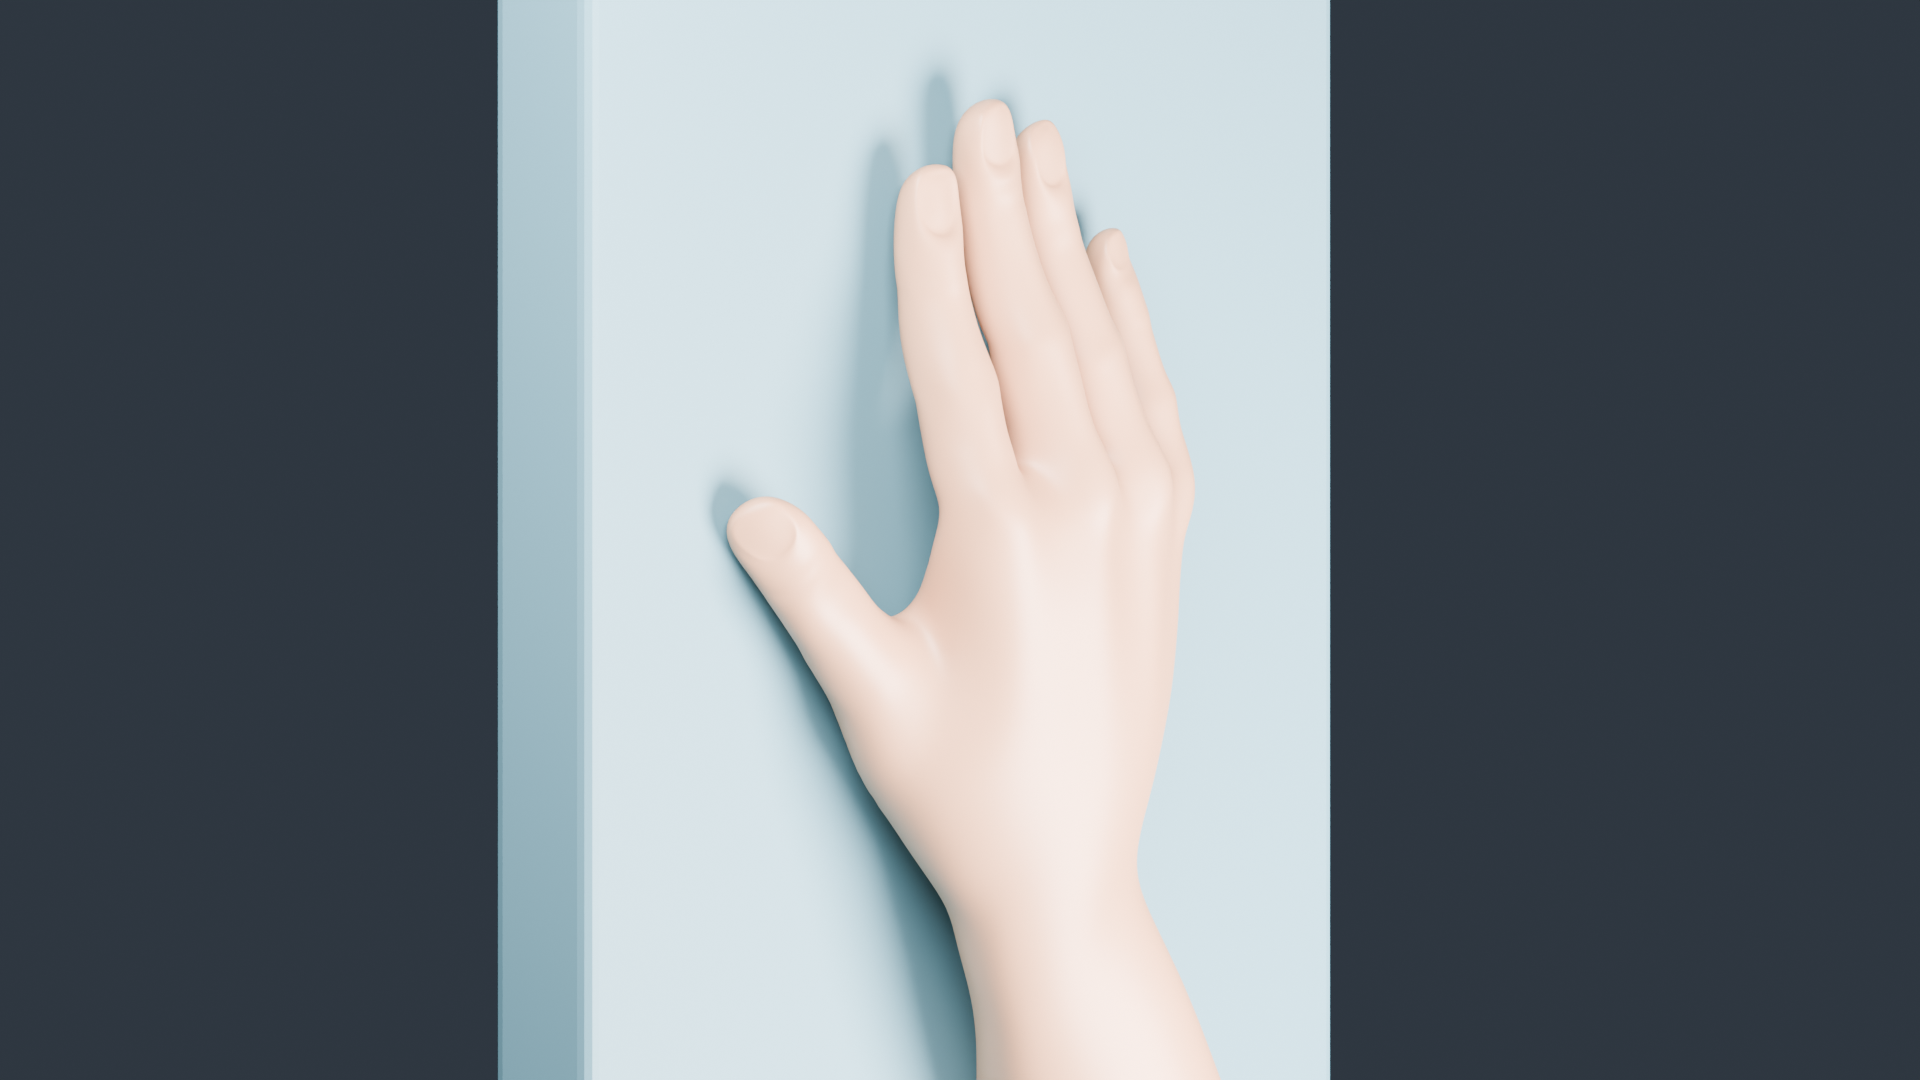
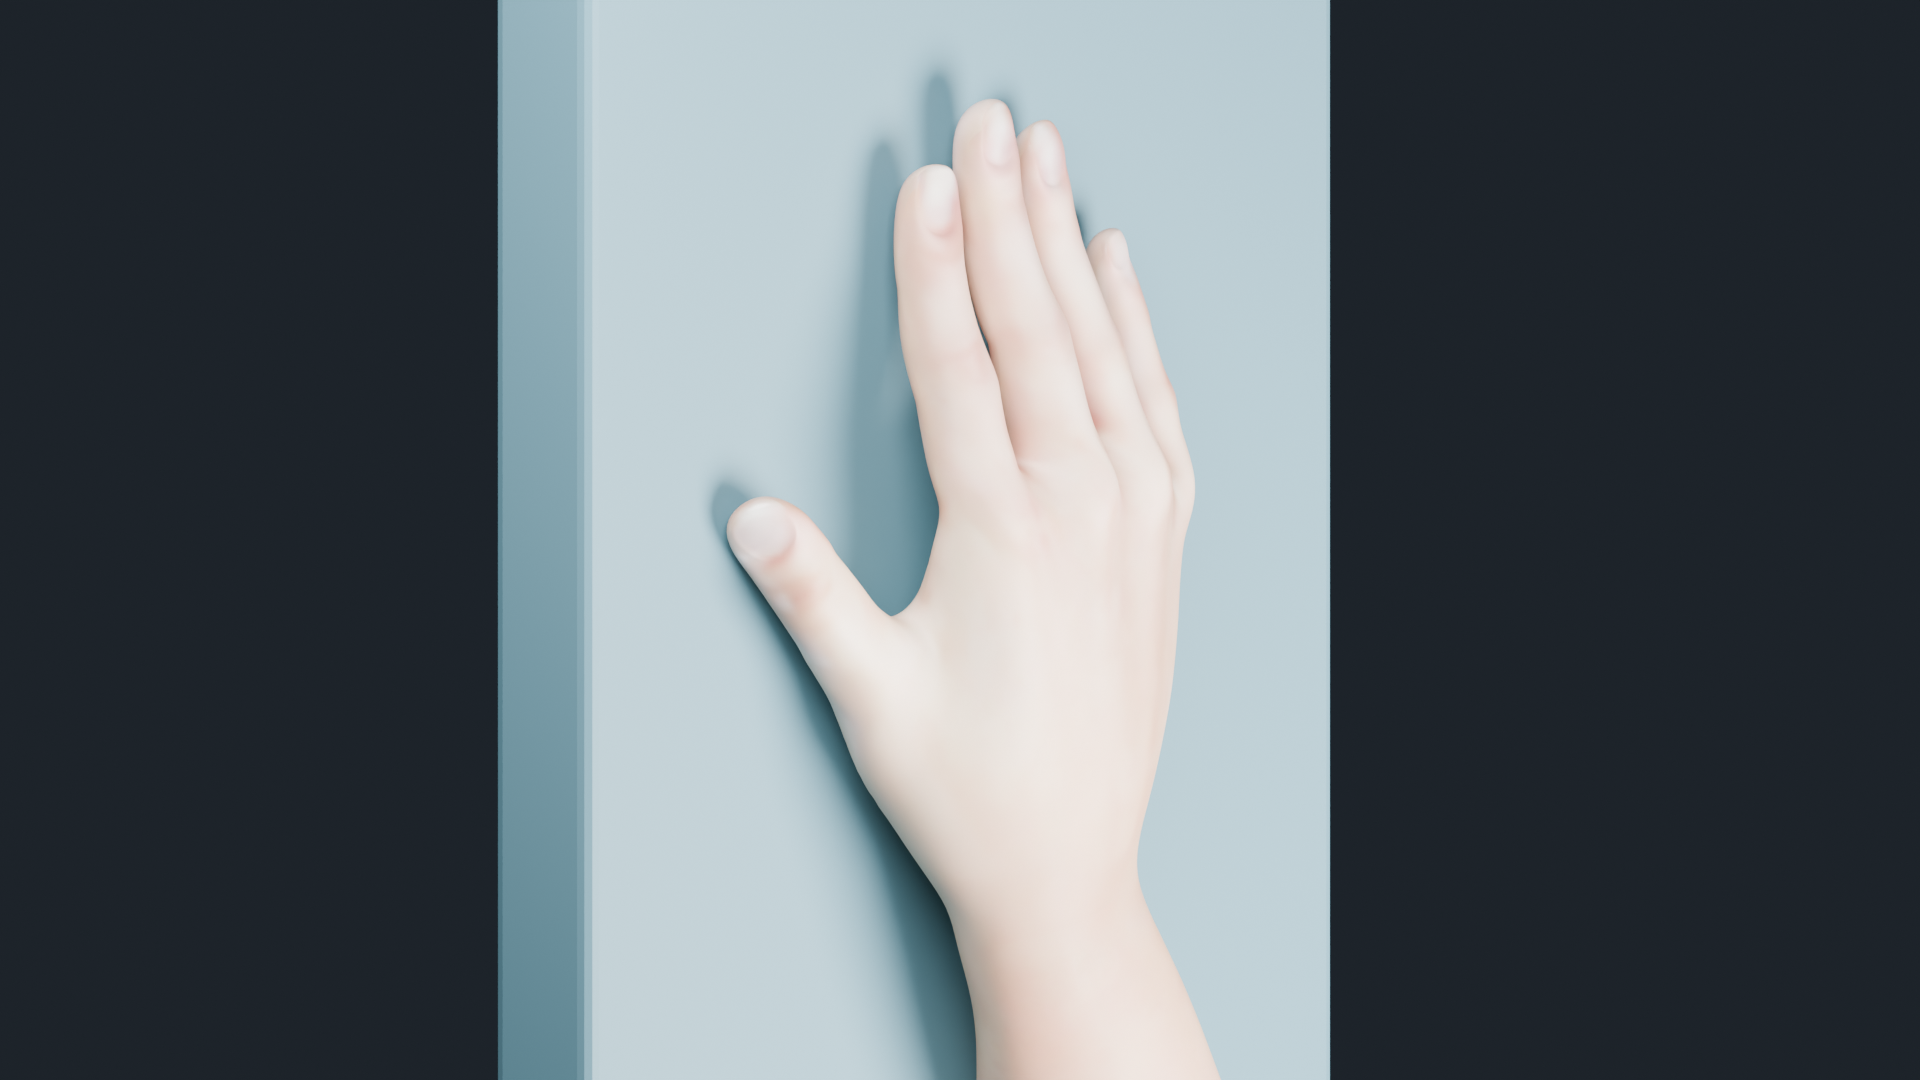
Render MPFB skin and fingernail textures in previews

Changed region(s): [[0.3438, 0.0611, 0.5312, 1.0], [0.25, 0.0, 0.3125, 1.0], [0.5625, 0.1833, 0.5938, 0.2139]]

diff --git a/tools/create_preview.py b/tools/create_preview.py
@@ -7,6 +7,7 @@ Blender with an isolated user profile. Model assets stay in .cache.
 """
 
 import argparse
+import hashlib
 import importlib
 import json
 import math
@@ -27,13 +28,13 @@ parser.add_argument('--source-blend', type=Path)
 parser.add_argument('--constraints', type=Path)
 parser.add_argument('--skip-render', action='store_true')
 parser.add_argument('--thumb-spread-degrees', type=float, default=35.0)
+parser.add_argument('--skin-mhmat', type=Path)
 arguments = parser.parse_args(sys.argv[sys.argv.index('--') + 1:] if '--' in sys.argv else [])
 
-if arguments.source_blend:
-    bpy.ops.wm.open_mainfile(filepath=str(arguments.source_blend.resolve()))
-else:
+
+def load_mpfb():
     if not arguments.mpfb_dir:
-        parser.error('Provide --mpfb-dir or --source-blend')
+        parser.error('--mpfb-dir is required to generate a model or apply its skin')
     extension_root = arguments.mpfb_dir.resolve().parent
     bpy.ops.preferences.extension_repo_add(name='Preview Assets', type='LOCAL',
                                          use_custom_directory=True, custom_directory=str(extension_root))
@@ -41,8 +42,15 @@ else:
                 if Path(repo.directory).resolve() == extension_root)
     mpfb = addon_utils.enable(f'bl_ext.{repo.module}.{arguments.mpfb_dir.name}', default_set=True)
     assert mpfb, 'MPFB could not be enabled'
+    return importlib.import_module(mpfb.__name__ + '.services')
+
+
+services = None
+if arguments.source_blend:
+    bpy.ops.wm.open_mainfile(filepath=str(arguments.source_blend.resolve()))
+else:
+    services = load_mpfb()
     assert addon_utils.enable('rigify', default_set=True)
-    services = importlib.import_module(mpfb.__name__ + '.services')
     macros = services.TargetService.get_default_macro_info_dict()
     macros.update(gender=0.0, age=0.5)
     skin = services.HumanService.create_human(macro_detail_dict=macros)
@@ -57,6 +65,31 @@ rig = next(obj for obj in bpy.context.scene.objects
            if obj.type == 'ARMATURE' and 'hand_ik.R' in obj.pose.bones)
 skin = next(obj for obj in bpy.context.scene.objects if obj.type == 'MESH'
             and any(modifier.type == 'ARMATURE' and modifier.object == rig for modifier in obj.modifiers))
+if arguments.skin_mhmat:
+    services = services or load_mpfb()
+    makeskin = importlib.import_module(services.__package__.rsplit('.', 1)[0]
+                                     + '.entities.material.makeskinmaterial')
+    definition = makeskin.MakeSkinMaterial()
+    definition.populate_from_mhmat(str(arguments.skin_mhmat.resolve()))
+    skin_material = bpy.data.materials.new('MPFB adult female skin')
+    definition.apply_node_tree(skin_material)
+    skin.data.materials.clear()
+    skin.data.materials.append(skin_material)
+    definition.ensure_uvmap_node_for_texture_nodes(skin)
+    # Use MPFB's own nail mask to retain a smoother nail surface in the close-up.
+    nodes, links = skin_material.node_tree.nodes, skin_material.node_tree.links
+    shader = nodes.get('Principled BSDF')
+    nail_mask = nodes.new('ShaderNodeTexImage')
+    nail_mask.name = 'MPFB fingernail mask'
+    nail_mask.image = bpy.data.images.load(str(arguments.mpfb_dir / 'data/textures/mpfb_fingernails.jpg'), check_existing=True)
+    nail_mask.image.colorspace_settings.name = 'Non-Color'
+    roughness = nodes.new('ShaderNodeMapRange')
+    roughness.inputs['From Min'].default_value = 0
+    roughness.inputs['From Max'].default_value = 1
+    roughness.inputs['To Min'].default_value = .48
+    roughness.inputs['To Max'].default_value = .22
+    links.new(nail_mask.outputs['Color'], roughness.inputs['Value'])
+    links.new(roughness.outputs['Result'], shader.inputs['Roughness'])
 constraint_report = None
 if arguments.constraints:
     from tools.preview_constraints import apply_reference
@@ -127,12 +160,18 @@ points = [evaluated.matrix_world @ mesh.vertices[index].co for index in used]
 hand_mesh = bpy.data.meshes.new('MPFB evaluated hand')
 visible = selected | {vertex.index for vertex in mesh.vertices
                       if (evaluated.matrix_world @ vertex.co - palm.translation).length < .16}
-visible_faces = [tuple(polygon.vertices) for polygon in mesh.polygons
-                 if all(index in visible for index in polygon.vertices)]
+visible_polygons = [polygon for polygon in mesh.polygons
+                    if all(index in visible for index in polygon.vertices)]
+visible_faces = [tuple(polygon.vertices) for polygon in visible_polygons]
 visible_indices = sorted({index for face in visible_faces for index in face})
 mapping = {index: offset for offset, index in enumerate(visible_indices)}
 hand_mesh.from_pydata([evaluated.matrix_world @ mesh.vertices[index].co for index in visible_indices], [],
                       [tuple(mapping[index] for index in face) for face in visible_faces])
+for layer in mesh.uv_layers:
+    target = hand_mesh.uv_layers.new(name=layer.name)
+    coordinates = [tuple(layer.data[index].uv) for polygon in visible_polygons for index in polygon.loop_indices]
+    for loop, uv in zip(target.data, coordinates):
+        loop.uv = uv
 evaluated.to_mesh_clear()
 assert len(points) > 100, 'No usable MPFB hand geometry was extracted'
 hand = bpy.data.objects.new('MPFB hand posed by Hand Posing', hand_mesh)
@@ -151,13 +190,15 @@ def material(name, color, roughness):
     return value
 
 
-hand_mesh.materials.append(material('MPFB hand clay', (.48, .23, .13), .48))
+hand_mesh.materials.append(skin.active_material if arguments.skin_mhmat
+                           else material('MPFB hand clay', (.48, .23, .13), .48))
 surface.data.materials.append(material('Contact surface', (.08, .19, .24), .6))
 bevel = surface.modifiers.new('Soft surface edges', 'BEVEL')
 bevel.width, bevel.segments = .003, 3
 scene = bpy.context.scene
 scene.render.engine = 'CYCLES'
 scene.cycles.samples = 64
+scene.view_settings.exposure = -1.0
 scene.render.resolution_percentage = 100
 scene.render.image_settings.file_format = 'PNG'
 scene.world = bpy.data.worlds.new('Preview world')
@@ -205,9 +246,14 @@ report = {'model': 'Adult female MPFB core basemesh', 'asset_license': 'CC0-1.0'
           'blender': bpy.app.version_string, 'addon_version': addon.__version__}
 report['thumb_refinement'] = {'manual_control_refinement': True, 'spread_before_degrees': spread_before,
                               'spread_after_degrees': spread_after}
+if arguments.skin_mhmat:
+    report['skin'] = {'material': arguments.skin_mhmat.name,
+                      'mhmat_sha256': hashlib.sha256(arguments.skin_mhmat.read_bytes()).hexdigest(),
+                      'shader': 'MPFB MakeSkin material with female diffuse texture and fingernail roughness mask',
+                      'asset_license': 'CC0-1.0'}
 if constraint_report:
     report['joint_limits'] = constraint_report
-(project / 'docs/preview-provenance.json').write_text(json.dumps(report, indent=2) + '\n')
+(project / 'docs/preview-provenance.json').write_text(json.dumps(report, indent=2) + '\n', newline='\n')
 print('MPFB preview verified:', {key: value for key, value in report.items() if key != 'joint_limits'})
 if constraint_report:
     print('Native limits:', constraint_report['native_limit_constraints'],

diff --git a/tools/preview_constraints.py b/tools/preview_constraints.py
@@ -46,7 +46,7 @@ def export_reference(source, output):
               'rig': rig.name, 'constraints': records,
               'wrist_properties': {side: {key: rig.pose.bones[f'hand_ik.{side}'][key]
                                         for key in WRIST_PROPERTIES} for side in ('L', 'R')}}
-    output.write_text(json.dumps(result, indent=2) + '\n')
+    output.write_text(json.dumps(result, indent=2) + '\n', newline='\n')
     print('Exported reference constraints:', len(records))
 
 

diff --git a/docs/publishing.md b/docs/publishing.md
@@ -1,5 +1,14 @@
 # Publishing
 
+## Publication status
+
+As of October 21, 2026, the GitHub 0.1.0 release is public. The official Blender
+Extensions listing exists as a draft at
+https://extensions.blender.org/add-ons/hand-posing/draft/ and has not been
+submitted for moderation. The corrected adult female MPFB previews are prepared
+locally; replacing the draft images and submitting the listing still require
+browser file-upload permission.
+
 ## Release package
 
 Run `python tools/check.py --blender PATH`, then `python tools/build.py --blender
@@ -61,6 +70,10 @@ limits after snapping. Add `--skip-render` to repeat that verification quickly.
 The thumbnail demonstrates editable pose refinement: after snapping, the thumb
 control is brought to a 35-degree spread while retaining the reference limits.
 The listing describes this refinement explicitly.
+Use `--skin-mhmat PATH` with `--mpfb-dir PATH` to apply the MakeHuman female skin
+through MPFB's MakeSkin material, including its fingernail roughness mask. The published
+previews use `young_caucasian_female.mhmat`, matching the reference woman's diffuse
+texture. The extracted preview mesh retains the model's UV coordinates.
 Review the current [addon guidelines](https://developer.blender.org/docs/handbook/extensions/addon_guidelines/)
 and [terms](https://extensions.blender.org/terms-of-service/) for the submission.
 The manifest declares GPL-3.0-or-later and requires Blender 5.2.

diff --git a/docs/validation.md b/docs/validation.md
@@ -29,6 +29,8 @@ and snapped the right hand to the preview surface. The thumb was then refined
 with the editable control from approximately 94 degrees to a relaxed 35-degree
 spread. The camera frames the genuine
 MPFB thumb and fingers. See [provenance](preview-provenance.json).
+The model retains its UV coordinates and uses MPFB's MakeSkin material with the
+MakeHuman female diffuse texture and MPFB's fingernail roughness mask.
 The preview also applies the woman's joint-limit policy from
 `man_and_woman3.blend`: 30 finger constraints, two wrist constraints, and 12
 adjustable wrist-bound drivers. Evaluated pose verification passed after snapping

diff --git a/README.md b/README.md
@@ -9,6 +9,8 @@ the controls when enabled.
 The preview shows an adult female MPFB model's hand after snapping to a surface
 and refining the thumb with the editable rig controls.
 The model uses MPFB's CC0 core assets; see [preview provenance](docs/preview-provenance.json).
+Skin and nail appearance use MakeHuman's female diffuse texture and MPFB's
+fingernail roughness mask.
 
 Requires Blender 5.2 or later and standard Rigify hand controls with `.L` and `.R`
 names. Target surfaces should be locally convex. Source code uses GPL-3.0-or-later;

diff --git a/SPEC.md b/SPEC.md
@@ -26,3 +26,5 @@ Public previews use an adult female MPFB model with anatomically placed thumbs a
 demonstrate the extension's supported Rigify workflow.
 Preview posing uses the same native hand and finger joint constraints as the
 woman's rig in `man_and_woman3.blend`.
+The preview uses an MPFB skin texture and material so that fingernails and skin
+detail are clearly visible.
